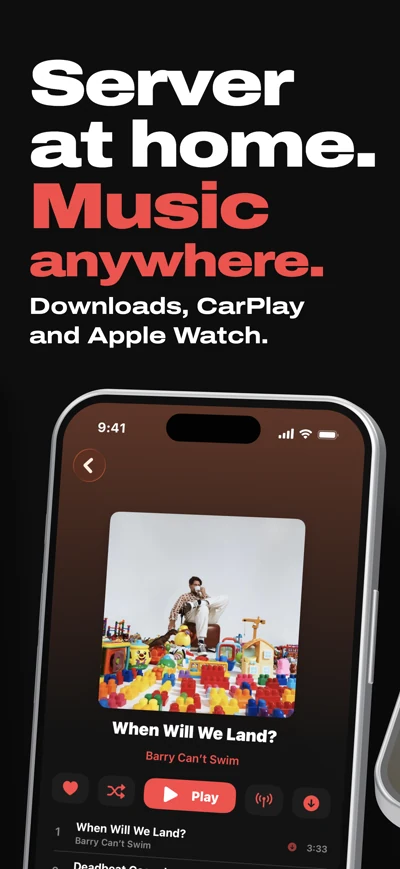
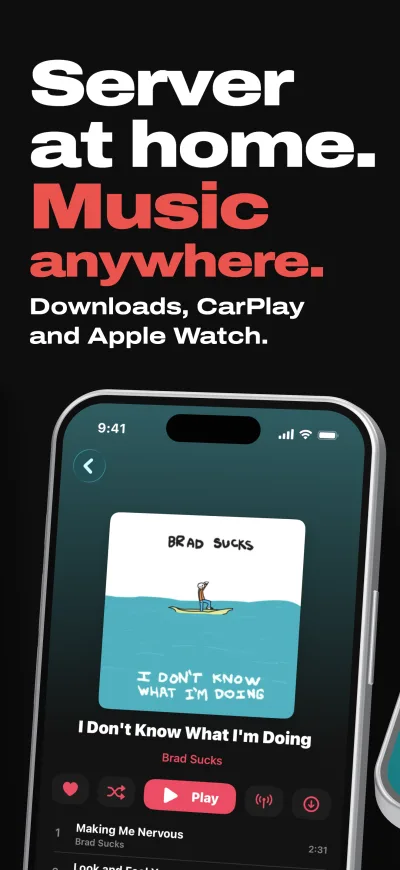
docs: the app store slides are shot again on navidrome's demo server, so the readme shows freely licensed music (natasha beller, the polish ambassador, nine inch nails' the slip, brad sucks) with live synced lyrics — the debug build can be pointed at a demo server from launch arguments (-shotServer,

diff --git a/Aura/Aura/Services/ServerManager.swift b/Aura/Aura/Services/ServerManager.swift
@@ -66,6 +66,16 @@ final class ServerManager {
            let decoded = try? JSONDecoder().decode(ServerConfig.self, from: data) {
             currentServer = decoded
         }
+        #if DEBUG
+        // tools/app-store-shots/shoot.sh points a fresh install at a demo server, past onboarding:
+        // `-shotServer <url> -shotUser <name> -shotPassword <password>`.
+        let defaults = UserDefaults.standard
+        if servers.isEmpty, let url = defaults.string(forKey: "shotServer") {
+            addServer(ServerConfig(url: url, username: defaults.string(forKey: "shotUser") ?? "",
+                                   password: defaults.string(forKey: "shotPassword") ?? "", friendlyName: "Demo"))
+            defaults.set(true, forKey: "hasCompletedOnboarding")
+        }
+        #endif
     }
 
     func saveServers() {
